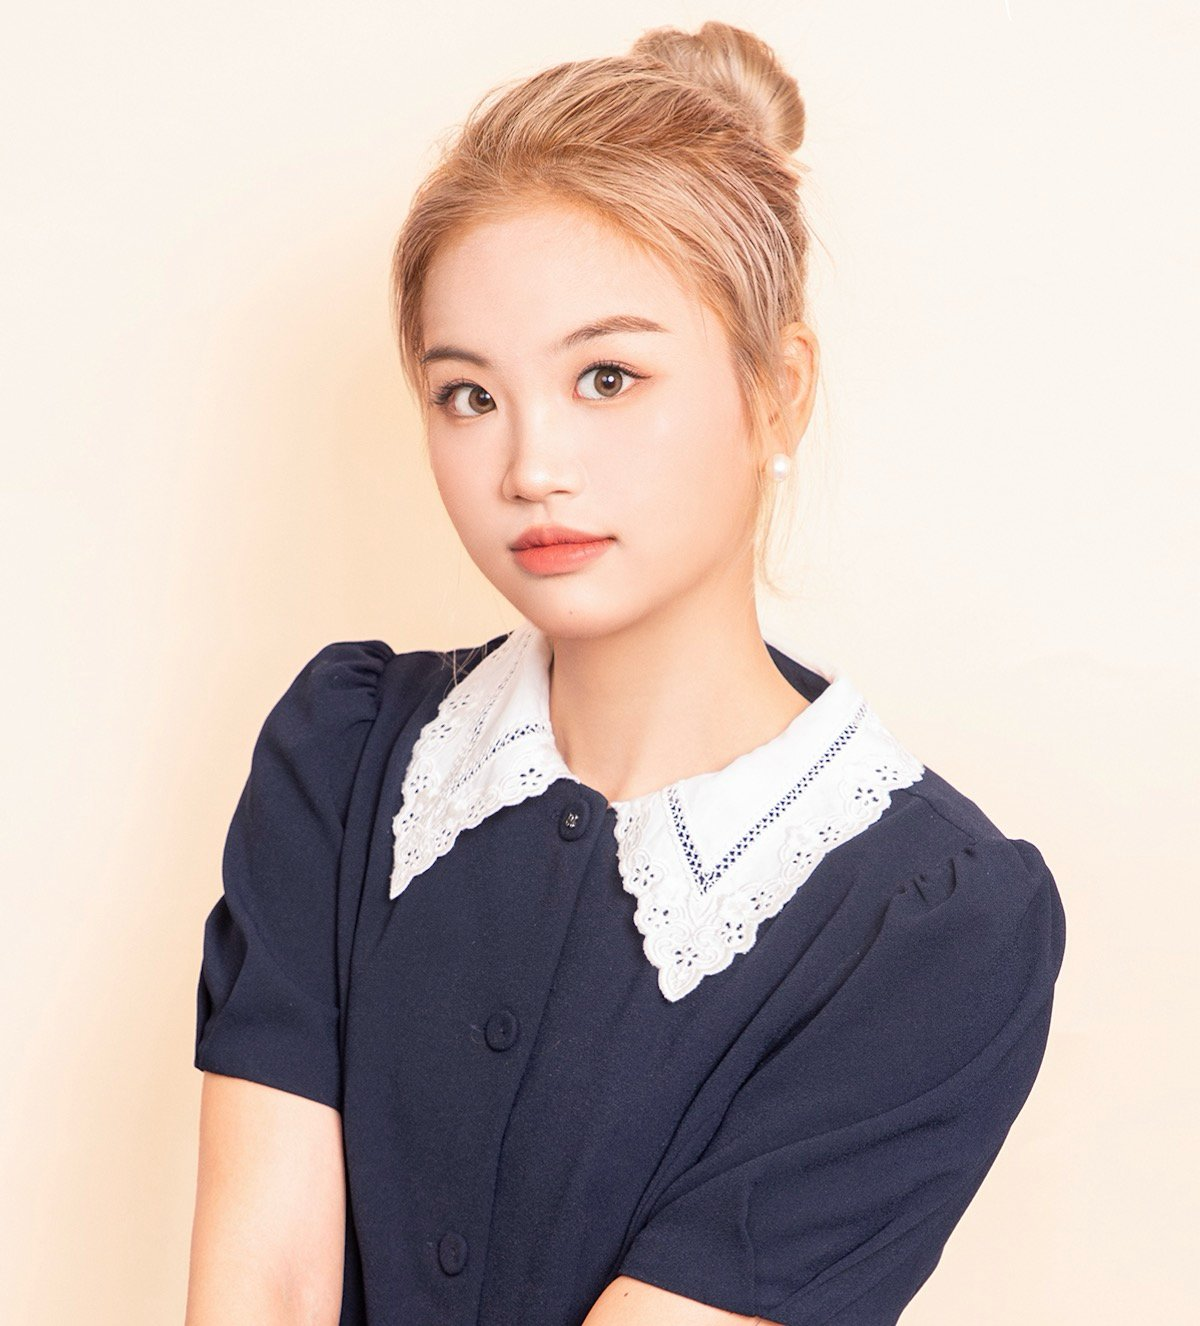
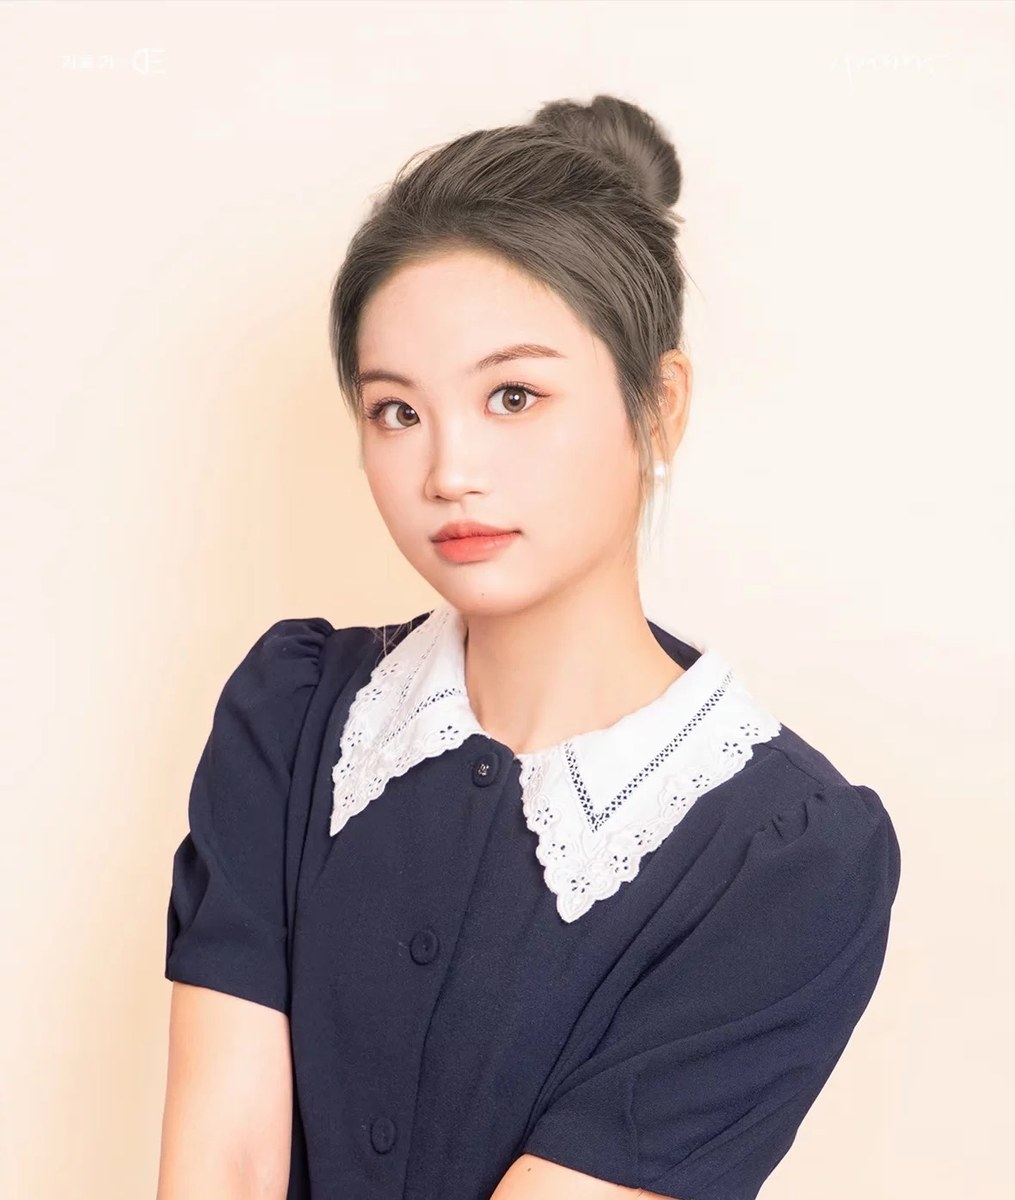
Replace portrait photo

diff --git a/index.html b/index.html
@@ -54,7 +54,7 @@
 <section class="hero">
   <div class="wrap hero-grid">
     <aside class="profile">
-      <img class="profile-photo" src="assets/portrait.jpg" alt="Chang Wan" width="1200" height="1326">
+      <img class="profile-photo" src="assets/portrait.jpg" alt="Chang Wan" width="1015" height="1200">
       <h1 class="profile-name">Chang Wan</h1>
       <p class="profile-title">Ph.D. Candidate in Communication</p>
       <p class="profile-affil">Zhejiang University</p>
